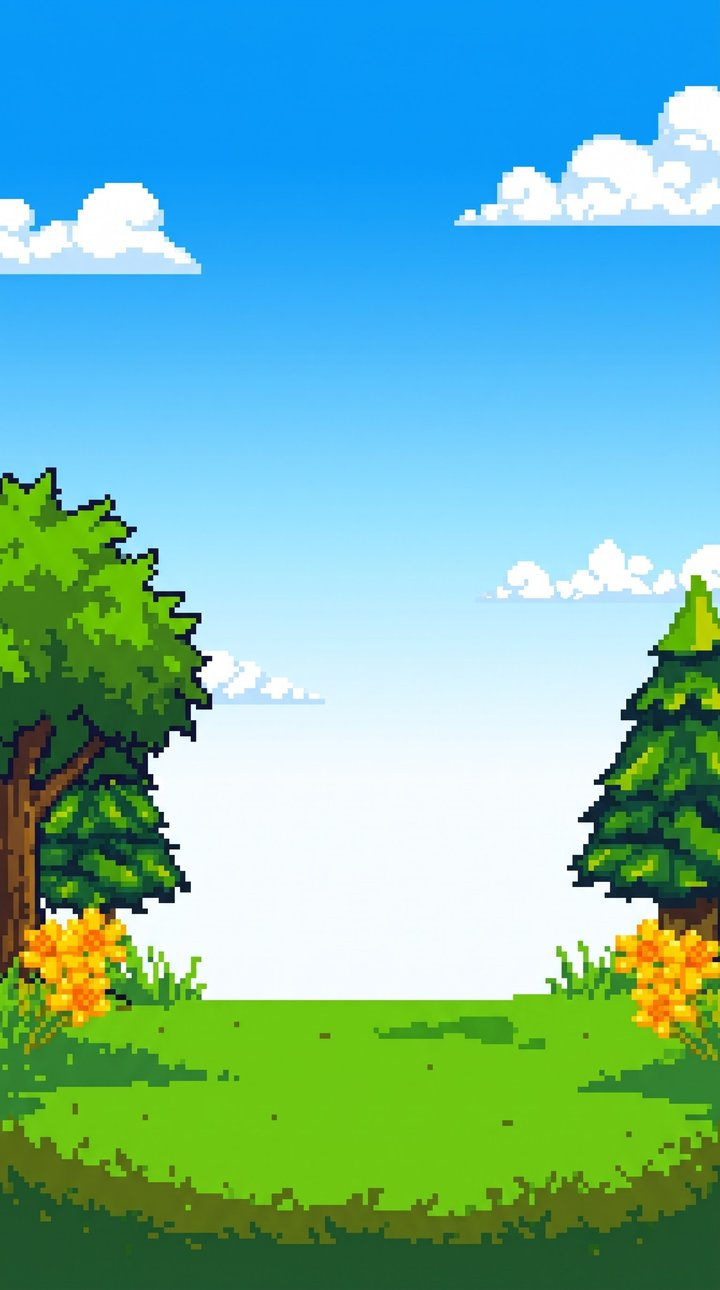
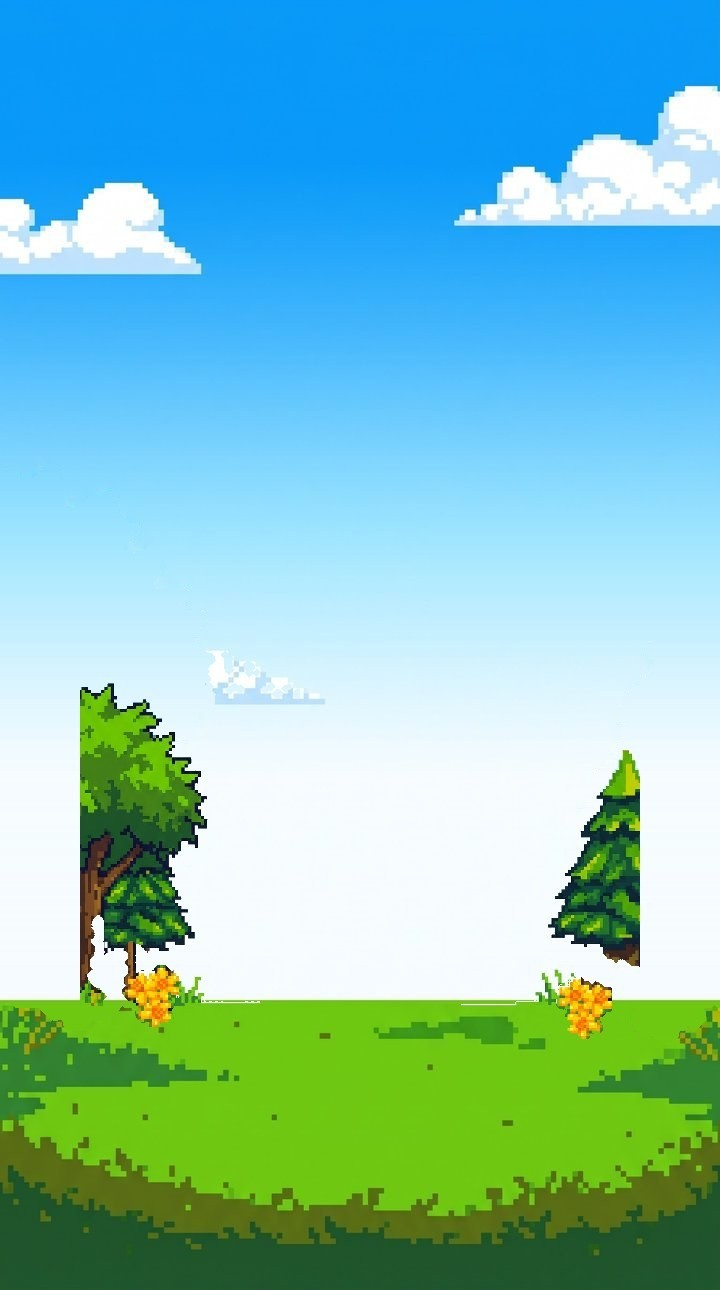
New glossy buttons, see-through panels, one-screen part picker
LET'S GO and the A/B/C answers use the new glossy buttons and the
part picker ends with the new decide button, all on one phone screen.
Question and hint sit in the white see-through panel used for the
start copy. QUIZ headings 80%, 10px more space under the logo.
Background trees 60% and flowers 50% (moved inward so phones show
them); wrong screen is a brighter blue and its text drops on the right.

Claude-Session: https://claude.ai/code/session_019RTRH81Sf379n12V2CwBBc

diff --git a/builder.html b/builder.html
@@ -3,7 +3,7 @@
 <meta name="claude:viewport-fit-sides" content="cover">
 <link rel="preconnect" href="https://fonts.googleapis.com">
 <link rel="preconnect" href="https://fonts.gstatic.com" crossorigin>
-<link href="https://fonts.googleapis.com/css2?family=DotGothic16&family=Yusei+Magic&display=swap" rel="stylesheet">
+<link href="https://fonts.googleapis.com/css2?family=DotGothic16&family=Press+Start+2P&family=Yusei+Magic&display=swap" rel="stylesheet">
 <style>
 /* layout: one phone-width column over the pixel-forest backdrop; one screen visible at a time
    (start → quiz → result → pick a part → hint → next quiz … → finished house).
@@ -21,8 +21,9 @@
   --paper:#FFFFFF;
   --ring:#ECE7DC;      /* faint orbit line on the white screen */
   --sky:#5DBEFB;       /* correct screen: pixel sky behind the clouds */
-  --gloom:#1B1626;     /* wrong screen: dark gradient with manga gloom lines */
+  --gloom:#2C4590;     /* wrong screen: blue gradient with manga gloom lines */
   --pixel:'DotGothic16','Hiragino Maru Gothic ProN',sans-serif;
+  --arcade:'Press Start 2P','DotGothic16',monospace;   /* pixel lettering on the LET'S GO button */
   --hand:'Yusei Magic','Hiragino Maru Gothic ProN','Hiragino Sans',sans-serif;   /* cute hand-lettered text for copy, questions, notes */
   color-scheme:dark;
 }
@@ -61,47 +62,49 @@ body.gloom{background:var(--gloom) url(assets/ui/bg_gloom.jpg) center top / cove
 .start-head{display:flex;flex-direction:column;align-items:center;gap:10px;width:100%;margin-top:4vh}
 .start-anniv{width:56%;height:auto}
 .start-logo{width:66%;height:auto;filter:drop-shadow(0 2px 4px rgba(14,20,48,.7))}
-.start-title{width:80%;height:auto;margin-top:8px}
+.start-title{width:80%;height:auto;margin-top:18px}   /* 10px more air under the logo */
 .start-sub{font-size:calc(1.15rem + 2px);margin:0;color:var(--ink);
   text-shadow:2px 0 0 var(--edge),-2px 0 0 var(--edge),0 2px 0 var(--edge),0 -2px 0 var(--edge),2px 2px 0 var(--edge),-2px 2px 0 var(--edge),2px -2px 0 var(--edge),-2px -2px 0 var(--edge)}
-.start-lead{
-  width:88%;margin:2vh 0 0;
+.panel{                     /* white see-through panel: start copy, question, hint */
+  width:88%;
   background:color-mix(in srgb, var(--paper) 90%, transparent);
   color:var(--dark);
   border:3px solid var(--edge);border-radius:14px;
   padding:12px 14px;
-  font-size:calc(1rem + 2px);line-height:1.75;text-align:center;
+  font-size:calc(1rem + 2px);line-height:1.75;
+}
+.start-lead{
+  margin:2vh 0 0;
+  text-align:center;
   word-break:keep-all;overflow-wrap:anywhere;   /* break only at the marked phrase ends */
 }
-.start-btn{width:63%;margin-top:2vh}
-.start-btn img{width:100%;height:auto}
+.start-btn{
+  width:63%;margin-top:2vh;
+  aspect-ratio:1390/348;
+  background:url(assets/ui/btn_yellow.png) center / 100% 100% no-repeat;
+  border:0;cursor:pointer;
+  font-family:var(--arcade);font-size:calc(.95rem + 2px);color:var(--dark);
+  letter-spacing:.06em;
+}
 
 /* quiz */
-.quiz-no{width:52%;max-width:225px;height:auto}
-.qframe{
-  width:90%;
-  aspect-ratio:700/447;
-  background:url(assets/ui/quiz_frame.png) center / 100% 100% no-repeat;
-  padding:16% 12% 8% 13%;
-  display:flex;align-items:center;
-  color:var(--dark);
-  font-size:calc(1rem + 2px);line-height:1.6;
-}
+.quiz-no{width:42%;max-width:180px;height:auto}
+.qframe{width:90%;min-height:7.5em;display:flex;align-items:center;padding:16px 18px}
 .abc-list{width:90%;display:flex;flex-direction:column;gap:9px}
 .abc{
   width:100%;
-  aspect-ratio:1724/450;
+  aspect-ratio:1390/349;
   background:center / 100% 100% no-repeat;
   border:0;cursor:pointer;
   font-family:var(--hand);font-size:calc(1.05rem + 2px);color:var(--dark);
   display:flex;align-items:center;gap:11px;
-  padding:0 8%;
+  padding:0 9%;
   text-align:left;
 }
 .abc b{font-weight:400;font-size:calc(1.17rem + 2px)}
-.abc[data-l="A"]{background-image:url(assets/ui/btn_a.png)}
-.abc[data-l="B"]{background-image:url(assets/ui/btn_b.png);color:var(--paper)}
-.abc[data-l="C"]{background-image:url(assets/ui/btn_c.png);color:var(--paper)}
+.abc[data-l="A"]{background-image:url(assets/ui/btn_red.png);color:var(--paper);text-shadow:0 2px 0 rgba(120,30,0,.55)}
+.abc[data-l="B"]{background-image:url(assets/ui/btn_yellow.png);color:var(--dark)}
+.abc[data-l="C"]{background-image:url(assets/ui/btn_green.png);color:var(--paper);text-shadow:0 2px 0 rgba(20,80,0,.55)}
 
 /* result: no frame, text and icon separate, icon sits in the middle of the screen */
 .result{min-height:calc(100svh - 40px);gap:16px}
@@ -131,15 +134,25 @@ body.gloom{background:var(--gloom) url(assets/ui/bg_gloom.jpg) center top / cove
     70%{transform:scale(.94)}
     100%{transform:scale(1)}
   }
+  /* 不正解: the right side suddenly drops, as if a hinge on the left gave way */
+  .drop{transform-origin:6% 55%;animation:drop .9s both}
+  @keyframes drop{
+    0%,30%{transform:rotate(0)}
+    48%{transform:rotate(17deg);animation-timing-function:ease-out}
+    62%{transform:rotate(11deg)}
+    76%{transform:rotate(15deg)}
+    100%{transform:rotate(14deg)}
+  }
 }
 
 /* part pick: white page, house fixed in the middle, choices orbit around it */
 .step-count{font-size:calc(.85rem + 2px);letter-spacing:.12em;margin:0;color:var(--muted-dark)}
 .banner{width:74%;max-width:306px}
+#s-part{height:calc(100svh - 36px);gap:8px}   /* banner to the decide button fits one screen */
 .dial{
   position:relative;
   width:100%;
-  height:min(132vw, 560px);
+  flex:1;min-height:0;
   touch-action:pan-y;
   user-select:none;-webkit-user-select:none;
   cursor:grab;
@@ -155,14 +168,15 @@ body.gloom{background:var(--gloom) url(assets/ui/bg_gloom.jpg) center top / cove
 }
 .stage{
   position:absolute;left:50%;top:50%;
-  width:38%;
+  height:66%;
+  aspect-ratio:1290/2785;
   transform:translate(-50%,-50%);
   border:3px solid var(--dark);
   line-height:0;
   z-index:50;
   background:var(--paper);
 }
-.stage canvas{width:100%;height:auto;display:block}
+.stage canvas{width:100%;height:100%;display:block}
 .orb{
   position:absolute;left:0;top:0;
   width:76px;height:76px;
@@ -179,7 +193,9 @@ body.gloom{background:var(--gloom) url(assets/ui/bg_gloom.jpg) center top / cove
 .orb.land img{max-width:100%;max-height:none;width:100%;height:100%;object-fit:cover}
 .orb .sw{width:100%;height:100%;background-size:cover;background-position:center}
 .orb.front{border-color:var(--pick);box-shadow:0 0 0 3px var(--dark)}
-.pick-row{display:flex;align-items:center;justify-content:center;gap:16px;width:100%}
+.pick-row{display:flex;align-items:center;justify-content:center;gap:16px;width:100%;flex:none}
+.decide{flex:none}
+.decide img{height:62px;width:auto}
 .arrow{
   font-family:var(--hand);font-size:calc(1.1rem + 2px);
   width:40px;height:40px;
@@ -198,6 +214,10 @@ body.gloom{background:var(--gloom) url(assets/ui/bg_gloom.jpg) center top / cove
   padding:11px 16px;cursor:pointer;
 }
 .note{font-size:calc(.85rem + 2px);color:var(--muted);text-align:center;line-height:1.7;margin:0}
+.panel p.note{color:var(--muted-dark);font-size:calc(.75rem + 2px);margin-top:8px}
+.panel h2{font-weight:400;font-size:calc(.8rem + 2px);letter-spacing:.12em;margin:0 0 4px;color:#7A5B12}
+.panel p{margin:0}
+#s-hint{padding-top:6vh;gap:18px}
 
 /* done */
 .done-title{font-size:calc(1.53rem + 2px);color:var(--pick);margin:0;text-shadow:3px 3px 0 var(--edge)}
@@ -220,13 +240,13 @@ body.gloom{background:var(--gloom) url(assets/ui/bg_gloom.jpg) center top / cove
       <img class="start-title" src="assets/ui/title_house.png" alt="HOUSE QUIZ RALLY">
       <p class="start-sub">おうちづくりクイズラリー</p>
     </div>
-    <p class="start-lead">クイズに正解して、<wbr>家のパーツをゲット!<br>5問クリアで、<wbr>あなただけの<wbr>理想の家が完成。</p>
-    <button class="img-btn start-btn" id="btn-start"><img src="assets/ui/btn_start.png" alt="LET'S GO!"></button>
+    <p class="panel start-lead">クイズに正解して、<wbr>家のパーツをゲット!<br>5問クリアで、<wbr>あなただけの<wbr>理想の家が完成。</p>
+    <button class="start-btn" id="btn-start">LET'S GO!</button>
   </section>
 
   <section class="screen" id="s-quiz" hidden>
     <img class="quiz-no" id="q-no" src="assets/ui/quiz_1.png" alt="QUIZ 1">
-    <div class="qframe"><span id="q-text"></span></div>
+    <div class="panel qframe"><span id="q-text"></span></div>
     <div class="abc-list" id="q-choices"></div>
   </section>
 
@@ -260,16 +280,14 @@ body.gloom{background:var(--gloom) url(assets/ui/bg_gloom.jpg) center top / cove
       <button class="arrow" id="nextopt" aria-label="ひとつ次">▶</button>
     </div>
     <p class="swipe-note">左右にスライドして、くるっと回してえらぼう</p>
-    <button class="img-btn" id="btn-part-next"><img class="nav-img" src="assets/ui/btn_next.png" alt="つぎへ"></button>
+    <button class="img-btn decide" id="btn-part-next"><img src="assets/ui/btn_decide.png" alt="けってい"></button>
   </section>
 
   <section class="screen" id="s-hint" hidden>
-    <div class="plate">
-      <p class="hint-title">つぎの問題はどこ?</p>
-      <div class="box"><h2>ヒント</h2><p id="hint"></p></div>
-      <p class="note">本番では、ここで次の場所のQRコードを探して読みとります。</p>
-      <button class="plain-btn" id="btn-scan">QRを読みとったことにする</button>
-    </div>
+    <p class="hint-title">つぎの問題はどこ?</p>
+    <div class="panel"><h2>ヒント</h2><p id="hint"></p>
+      <p class="note">本番では、ここで次の場所のQRコードを探して読みとります。</p></div>
+    <button class="plain-btn" id="btn-scan">QRを読みとったことにする</button>
   </section>
 
   <section class="screen" id="s-done" hidden>
@@ -402,6 +420,11 @@ body.gloom{background:var(--gloom) url(assets/ui/bg_gloom.jpg) center top / cove
     document.body.classList.toggle("gloom", name === "wrong");
     window.scrollTo(0, 0);
   }
+  function replayAnim(el, cls){
+    el.classList.remove(cls);
+    void el.offsetWidth;
+    el.classList.add(cls);
+  }
   function replayPop(el){
     el.classList.remove("pop");
     void el.offsetWidth;
@@ -431,7 +454,10 @@ body.gloom{background:var(--gloom) url(assets/ui/bg_gloom.jpg) center top / cove
           document.getElementById("explain").textContent = Q.ex;
           show("correct");
           replayPop(document.getElementById("correct-text"));
-        } else show("wrong");
+        } else {
+          show("wrong");
+          replayAnim(document.getElementById("wrong-text"), "drop");
+        }
       });
       list.appendChild(b);
     });
